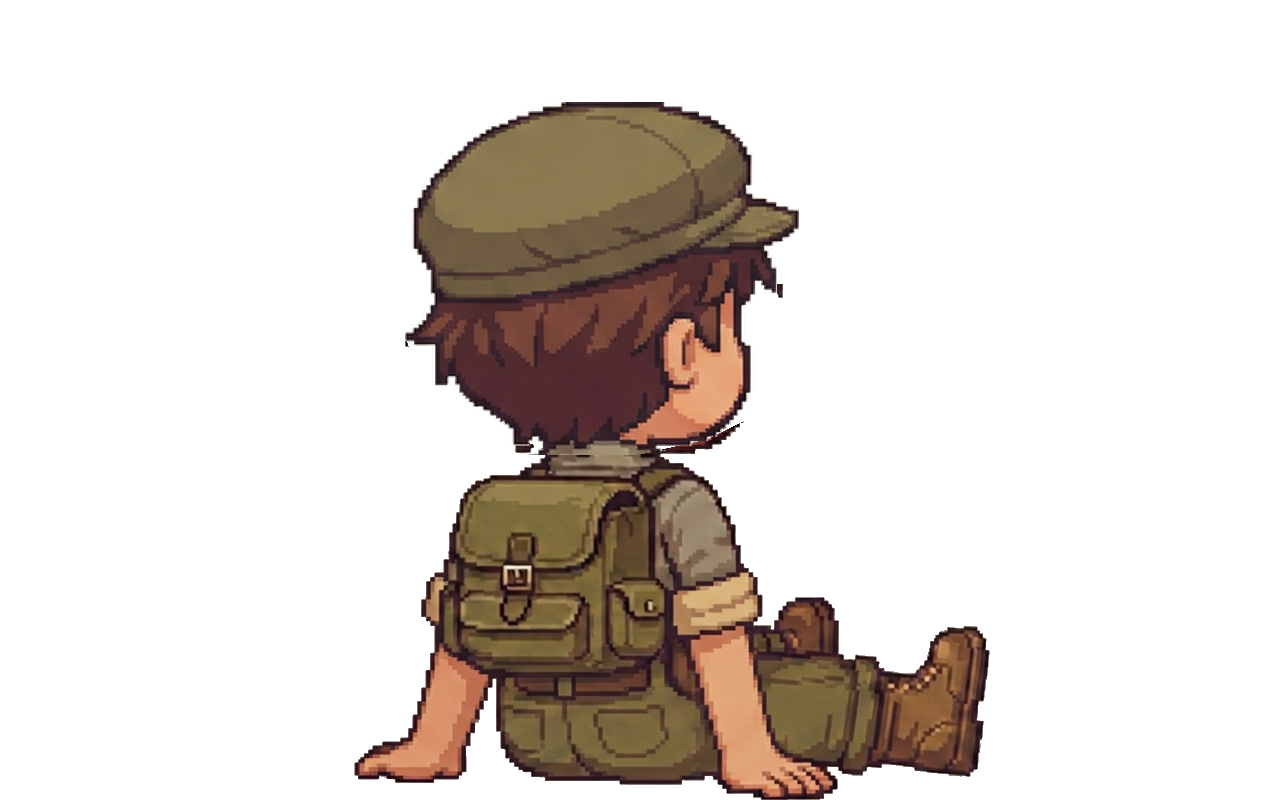
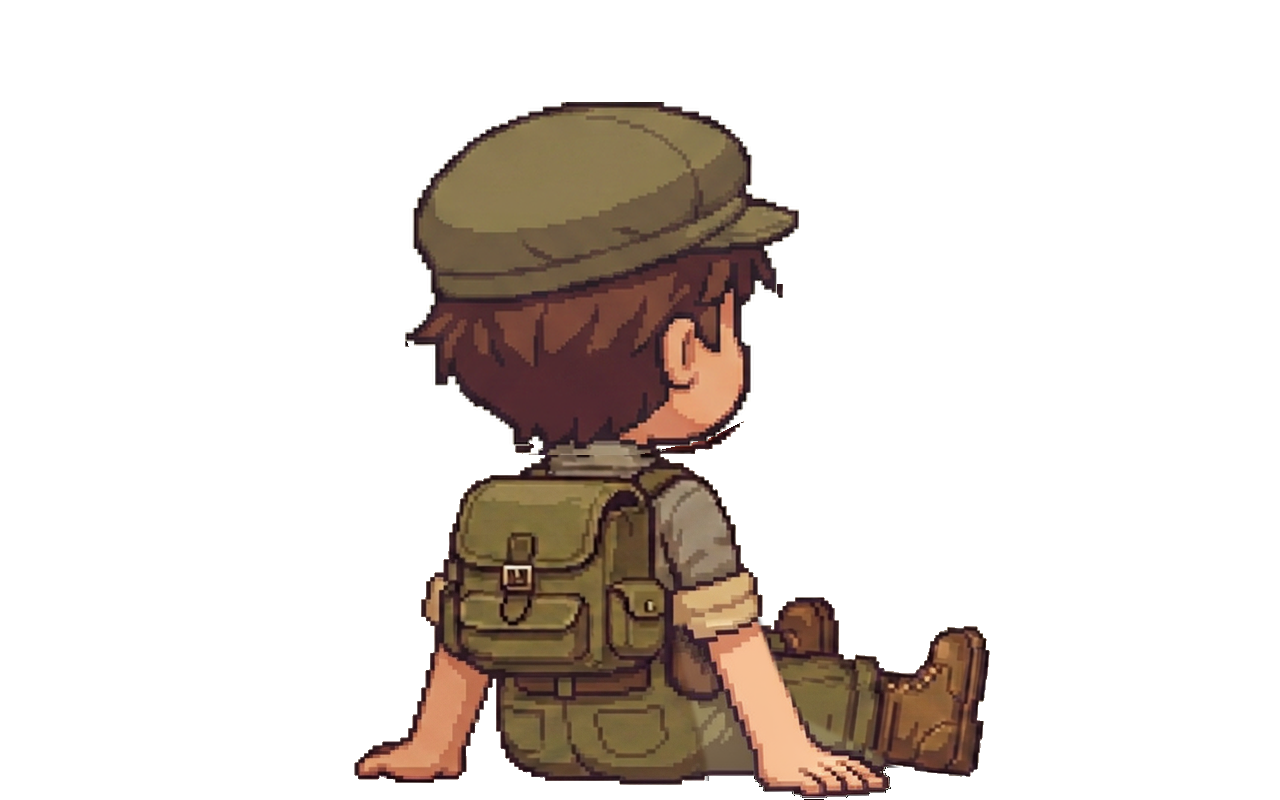
Apply approved seated rear hand position

Changed region(s): [[0.5312, 0.75, 0.7188, 1.0]]

diff --git a/preview/app.js b/preview/app.js
@@ -1856,7 +1856,7 @@
   const characterShadowMasks=new WeakMap();
   const idleBowController=window.PlayerIdleBow.create();
   const idleBowFrames=Object.fromEntries(['front','back'].map(side=>[side,
-    ['transition','concept','sit-lowering','sit-nearly','sitting'].map(pose=>{const image=new Image();image.dataset.playerIdleBow='true';image.src=`./assets/player-idle-${side}-${pose}.png?v=12`;return image;})]));
+    ['transition','concept','sit-lowering','sit-nearly','sitting'].map(pose=>{const image=new Image();image.dataset.playerIdleBow='true';image.src=`./assets/player-idle-${side}-${pose}.png?v=13`;return image;})]));
   let idleBowAmount=0, idleSitAmount=0, idleBowSprite=null, waterEscapeKey=null;
   const idleBlend=document.createElement('canvas');idleBlend.width=512;idleBlend.height=800;
   idleBlend.dataset.playerIdleBow='true';
@@ -2283,7 +2283,7 @@
       ctx.beginPath();ctx.ellipse(x,groundY-.45*character.scale,4.6*character.scale,.8*character.scale,0,0,Math.PI*2);ctx.fill();
       if(seatWeight>0) {
         // Contact patches follow the illustrated hip and supporting palms, including mirrors.
-        const contacts=back?[[600,778,2.5],[395,774,1.3],[780,795,1.3]]:[[680,725,2.5],[850,751,1.3]];
+        const contacts=back?[[600,778,2.5],[395,774,1.3],[835,795,1.3]]:[[680,725,2.5],[850,751,1.3]];
         const dir=mirror?-1:1;ctx.globalAlpha=seatWeight;
         for(const [px,py,r] of contacts) {
           const cx=x+dir*(px-640)*width/1280,cy=y+(py-800)*height/800;

diff --git a/preview/index.html b/preview/index.html
@@ -31,7 +31,7 @@
   <script src="./fence-joins.js?v=2" defer></script>
   <script src="./player-idle-bow.js?v=8" defer></script>
   <script src="./sparrow-pet.js?v=6" defer></script>
-  <script src="./app.js?v=evening-311" defer></script>
+  <script src="./app.js?v=seated-hand-312" defer></script>
   <script src="./preview-modes.js?v=2" defer></script>
   <script src="./editor-camera.js?v=7" defer></script>
   <script src="./terrain-tools.js?v=ramp-110" defer></script>

diff --git a/tools/apply_seated_back_hand.py b/tools/apply_seated_back_hand.py
@@ -1,0 +1,38 @@
+#!/usr/bin/env python3
+"""Apply the approved rear-view hand study to the existing seated sprite.
+
+Run after build_player_idle_sitting.py; the rest of the pose stays untouched.
+"""
+from collections import deque
+from pathlib import Path
+from PIL import Image, ImageDraw, ImageFilter
+
+root = Path(__file__).resolve().parents[1]
+preview = root / 'preview/assets/player-idle-back-sitting.png'
+android = root / 'app/src/main/res/drawable-nodpi/player_idle_back_sitting.png'
+original = Image.open(preview).convert('RGBA')
+study = Image.open(root / 'artwork/sitting-back-right-hand-options.png').convert('RGBA')
+aligned = Image.new('RGBA', original.size)
+aligned.paste(study, (-130, 0))
+# Remove only the dark background connected to the canvas boundary, preserving
+# dark outlines and details inside the character.
+pixels = aligned.load()
+w, h = aligned.size
+queue = deque([(0, 0)])
+seen = {(0, 0)}
+while queue:
+    x, y = queue.popleft()
+    if max(pixels[x, y][:3]) > 12:
+        continue
+    pixels[x, y] = (0, 0, 0, 0)
+    for pt in ((x-1, y), (x+1, y), (x, y-1), (x, y+1)):
+        if 0 <= pt[0] < w and 0 <= pt[1] < h and pt not in seen:
+            seen.add(pt)
+            queue.append(pt)
+mask = Image.new('L', original.size)
+ImageDraw.Draw(mask).polygon([(674,625),(756,616),(776,668),(803,718),
+    (875,753),(910,779),(910,799),(710,799),(706,760),(692,704)], fill=255)
+mask = mask.filter(ImageFilter.GaussianBlur(2))
+result = Image.composite(aligned, original, mask)
+result.save(preview, optimize=True)
+android.write_bytes(preview.read_bytes())

diff --git a/app/src/main/java/dev/retrobit/gtlauncher/WeatherSkyView.java b/app/src/main/java/dev/retrobit/gtlauncher/WeatherSkyView.java
@@ -1481,7 +1481,7 @@ public final class WeatherSkyView extends View {
         if(depth==0f) {
             canvas.drawOval(new RectF(x-4.6f*characterScale,y-1.25f*characterScale,x+4.6f*characterScale,y+.35f*characterScale),paint);
             if(seatWeight>0) {
-                float[][] contacts=back?new float[][]{{600,778,2.5f},{395,774,1.3f},{780,795,1.3f}}
+                float[][] contacts=back?new float[][]{{600,778,2.5f},{395,774,1.3f},{835,795,1.3f}}
                         :new float[][]{{680,725,2.5f},{850,751,1.3f}};
                 paint.setColor(Color.argb(Math.round(97*seatWeight),12,23,30));
                 for(float[] p:contacts) {

diff --git a/tools/test_player_idle_sprites.py b/tools/test_player_idle_sprites.py
@@ -60,3 +60,7 @@ for pose in ('sitting','sit-nearly'):
     image=Image.open(root/f'preview/assets/player-idle-front-{pose}.png').convert('RGBA')
     assert hand_mean_x(image,-13,6)>hand_mean_x(old,0,0)+20, 'supporting hand should be farther back'
 print('Selected idle sprites: size, transparency, fixed boots, browser/Android parity: OK')
+
+back=Image.open(root/'preview/assets/player-idle-back-sitting.png').convert('RGBA')
+assert sum(map(skin,back.crop((825,760,880,798)).getdata()))>100, 'rear supporting hand should extend farther back'
+assert back.getpixel((0,0))[3]==0

diff --git a/tools/build_player_idle_sitting.py b/tools/build_player_idle_sitting.py
@@ -83,3 +83,7 @@ for view in ('front','back'):
         canvas.save(dest,optimize=True)
         (ROOT/'app/src/main/res/drawable-nodpi'/name.replace('-','_')).write_bytes(dest.read_bytes())
         print(view,frame,box,canvas.getbbox())
+
+# Apply the approved rear hand study after rebuilding the base frames.
+import runpy
+runpy.run_path(str(ROOT/'tools/apply_seated_back_hand.py'), run_name='__main__')

diff --git a/docs/player-idle-bow.md b/docs/player-idle-bow.md
@@ -38,3 +38,5 @@ belum terbukti sama. Pada tampak belakang kedua tangan terlihat, tetapi gambar
 dari masing-masing sisi badan belum dapat dipastikan sama. Belum ada perubahan
 pose pada pemeriksaan ini; aset Android identik dengan aset preview, namun
 tampilan perangkat Android belum diverifikasi.
+
+Pose duduk tampak belakang menggunakan patch tangan kanan dari konsep yang disetujui, disejajarkan ke sprite semula; kepala, badan, kaki, dan tangan kiri tetap pada posisi semula. Bayangan kontak mengikuti telapak baru. Frame hampir duduk tetap menggunakan pose lama dan perubahan memakai crossfade, sehingga transisi dapat menunjukkan bayangan ganda. Aset preview dan Android sama; Android belum diuji pada perangkat.
